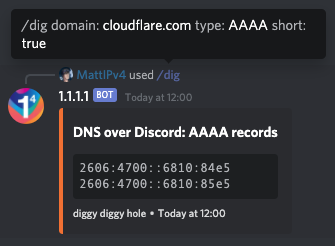
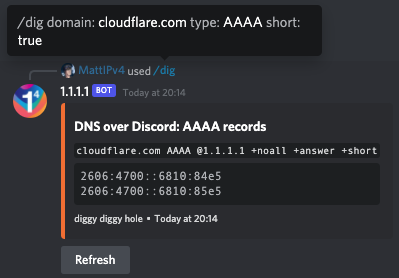
[1.1.1.1] Update the DNS over Discord docs (#1728)
* Update the DNS over Discord docs

Updates the supported types for dig & multi-dig

Adds information (and GIFs) for the new refresh button on dig & multi-dig

* Use single list format for record types

Changed region(s): [[0.0, 0.2276, 0.8358, 0.9959], [0.0, 0.0, 0.9851, 0.2561], [0.8657, 0.5122, 0.9552, 0.5691]]

diff --git a/products/1.1.1.1/src/content/fun-stuff/dns-over-discord.md b/products/1.1.1.1/src/content/fun-stuff/dns-over-discord.md
@@ -9,18 +9,24 @@ Ever wanted to make DNS requests from the comfort of your Discord server? Well n
 
 To start using the DNS over Discord bot, invite it to your Discord server using this link: [https://cfl.re/3nM6VfQ](https://cfl.re/3nM6VfQ)
 
+
 ## dig command
 
 Once the bot is in your server, type `/dig` to begin using the bot's main command — performing DNS lookups.
 This will provide a native interface within Discord that allows you to specify the domain to lookup, an optional DNS record type and an optional flag for a short result.
 
-Due to limitations in Discord, the `/dig` command can only offer 10 different DNS record types, and will default to 'A' records if none is specified.
+If only a domain is given for the command, the bot will default to looking for 'A' DNS records, and will return the full format result, not the short form.
 
 ![dig command](../static/dns-over-discord/dig-command.png)
 
-![dig command types](../static/dns-over-discord/dig-command-types.png)
+![dig domain: cloudflare.com](../static/dns-over-discord/dig-command-example-1.png)
+
+_`/dig domain: cloudflare.com`_
+
 
 ### Supported record types
+
+Discord has a limit of 25 options in slash commands, so DNS over Discord offers the 25 most common DNS record types to choose from:
 
 *   A
 *   AAAA
@@ -32,69 +38,147 @@ Due to limitations in Discord, the `/dig` command can only offer 10 different DN
 *   SPF
 *   SRV
 *   TXT
-
-For all DNS record types, use the `/multi-dig` command.
-
-### Examples
-
-![dig domain: cloudflare.com](../static/dns-over-discord/dig-command-example-1.png)
-
-`/dig domain: cloudflare.com`
-
-![dig domain: cloudflare.com type: AAAA short: True](../static/dns-over-discord/dig-command-example-2.png)
-
-`/dig domain: cloudflare.com type: AAAA short: True`
-
-## multi-dig command
-
-Want to lookup multiple DNS record types at once, or record types not available in `/dig`?
-The `/multi-dig` command allows you to specify any supported DNS record type, and multiple types separated by a space.
-
-When providing DNS record types for the `/multi-dig` command, Discord will not prompt you with options.
-Please provide a space-separated list of valid DNS record types to lookup, any invalid options will be silently dropped.
-'A' records will be used as the default if no valid types are given.
-
-![multi-dig command](../static/dns-over-discord/multi-dig-command.png)
-
-![multi-dig command types](../static/dns-over-discord/multi-dig-command-types.png)
-
-### Supported record types
-
-*   A
-*   AAAA
-*   CAA
-*   CERT
-*   CNAME
 *   DNSKEY
 *   DS
 *   LOC
-*   MX
+*   URI
+*   HTTPS
 *   NAPTR
-*   NS
 *   PTR
 *   SMIMEA
-*   SPF
-*   SRV
+*   SOA
 *   SSHFP
+*   SVCB
 *   TLSA
-*   TXT
-*   URI
+*   HINFO
+*   CDS
+*   CDNSKEY
 
-Use '\*' (asterisk) in place of a record type to get DNS results for all supported types.
+*To query other DNS record types, or multiple record types at once, use the `/multi-dig` command.*
 
-### Examples
+![dig command types](../static/dns-over-discord/dig-command-types.png)
+
+
+### Short form response
+
+Much like the dig command itself, DNS over Discord has an optional flag in the dig command that allows the user to request that the response be in the short form.
+
+When this is requested, the name and TTL columns will be excluded, with just the data column returned without the table formatting, similar to the equivalent dig command response.
+
+![dig domain: cloudflare.com type: AAAA short: true](../static/dns-over-discord/dig-command-example-2.png)
+
+_`/dig domain: cloudflare.com type: AAAA short: true`_
+
+
+### Refreshing existing results
+
+As part of the response that the DNS over Discord bot returns for dig commands there is a button to refresh the results.
+
+Any user can press this button, triggering the bot to re-request the DNS query in the message and update the results in the message.
+
+The refresh button is available on all responses to the dig command, including those that resulted in an error, such as an unknown domain or no records found.
+
+![Refreshing dig domain: cloudflare.com](../static/dns-over-discord/dig-command-refresh.gif)
+
+_`/dig domain: cloudflare.com`_
+
+
+## multi-dig command
+
+Want to lookup multiple DNS record types at once?
+The `/multi-dig` command allows you to specify any supported DNS record type, and multiple types separated by a space.
+
+![multi-dig command](../static/dns-over-discord/multi-dig-command.png)
 
 ![multi-dig domain: cloudflare.com types: A AAAA](../static/dns-over-discord/multi-dig-command-example-1.png)
 
-`/multi-dig domain: cloudflare.com types: A AAAA`
+_`/multi-dig domain: cloudflare.com types: A AAAA`_
 
-![multi-dig domain: cloudflare.com types: DNSKEY short: True](../static/dns-over-discord/multi-dig-command-example-2.png)
 
-`/multi-dig domain: cloudflare.com types: DNSKEY short: True`
+### Supported record types
+
+When providing DNS record types for the `/multi-dig` command, Discord will not prompt you with options.
+
+Please provide a space-separated list of valid DNS record types to lookup, any invalid options will be silently dropped.
+'A' records will be used as the default if no valid types are given.
+
+The following DNS record types are supported and considered valid by the bot:
+
+*   A
+*   AAAA
+*   CAA
+*   CERT
+*   CNAME
+*   MX
+*   NS
+*   SPF
+*   SRV
+*   TXT
+*   DNSKEY
+*   DS
+*   LOC
+*   URI
+*   HTTPS
+*   NAPTR
+*   PTR
+*   SMIMEA
+*   SOA
+*   SSHFP
+*   SVCB
+*   TLSA
+*   HINFO
+*   CDS
+*   CDNSKEY
+*   AFSDB
+*   APL
+*   CSYNC
+*   DHCID
+*   DLV
+*   DNAME
+*   EUI48
+*   EUI64
+*   HIP
+*   IPSECKEY
+*   KEY
+*   KX
+*   NSEC
+*   NSEC3
+*   NSEC3PARAM
+*   OPENPGPKEY
+*   RP
+*   TA
+*   TKEY
+*   ZONEMD
+
+*Use '\*' (asterisk) in place of a record type to get DNS results for all supported types.*
+
+![multi-dig command types](../static/dns-over-discord/multi-dig-command-types.png)
+
+
+### Short form response
+
+Like the main dig command, the multi-dig command also supports the optional short flag after the types have been specified in the slash command.
+
+![multi-dig domain: cloudflare.com types: CDS CDNSKEY short: true](../static/dns-over-discord/multi-dig-command-example-2.png)
+
+_`/multi-dig domain: cloudflare.com types: CDS CDNSKEY short: true`_
+
+
+### Refreshing existing results
+
+The multi-dig command also provides a refresh button below each set of DNS results requested (or after each block of 10 DNS record types if more than 10 were requested).
+
+As with the dig command, any user can press the refresh button to refresh the displayed DNS results, including for DNS queries that had previously failed.
+
+![Refreshing multi-dig domain: cloudflare.com types: A AAAA](../static/dns-over-discord/multi-dig-command-refresh.gif)
+
+_`/multi-dig domain: cloudflare.com types: A AAAA`_
+
 
 ## whois command
 
-The `/whois` command allows you to perform an RDAP/WHOIS lookup right in Discord to find who is behind a given domain name, an IP address, or an ASN.
+Curious about who's behind a domain name, an IP address or even an ASN?
+The `/whois` command allows you to perform an RDAP/WHOIS lookup right in Discord for a given domain, IP or ASN.
 
 ![whois command](../static/dns-over-discord/whois-command.png)
 
@@ -102,19 +186,19 @@ The `/whois` command allows you to perform an RDAP/WHOIS lookup right in Discord
 
 ![whois query: cloudflare.com](../static/dns-over-discord/whois-command-example-1.png)
 
-`/whois query: cloudflare.com`
+_`/whois query: cloudflare.com`_
 
 ![whois query: 104.16.132.229](../static/dns-over-discord/whois-command-example-2.png)
 
-`/whois query: 104.16.132.229`
+_`/whois query: 104.16.132.229`_
 
 ![whois query: 2606:4700::6810:84e5](../static/dns-over-discord/whois-command-example-3.png)
 
-`/whois query: 2606:4700::6810:84e5`
+_`/whois query: 2606:4700::6810:84e5`_
 
 ![whois query: 13335](../static/dns-over-discord/whois-command-example-4.png)
 
-`/whois query: 13335`
+_`/whois query: 13335`_
 
 ## Other commands
 
@@ -126,7 +210,7 @@ The `/help` command provides in-Discord documentation about all the commands ava
 
 ![help command](../static/dns-over-discord/help-command.png)
 
-`/help`
+_`/help`_
 
 ### privacy command
 
@@ -135,7 +219,7 @@ This notice can also be viewed at [https://dns-over-discord.v4.wtf/privacy](http
 
 ![privacy command](../static/dns-over-discord/privacy-command.png)
 
-`/privacy`
+_`/privacy`_
 
 ### github command
 
@@ -144,7 +228,7 @@ The GitHub repository can be accessed at [https://github.com/MattIPv4/DNS-over-D
 
 ![github command](../static/dns-over-discord/github-command.png)
 
-`/github`
+_`/github`_
 
 ### invite command
 
@@ -153,7 +237,7 @@ The bot can be invited at any time with [https://cfl.re/3nM6VfQ](https://cfl.re/
 
 ![invite command](../static/dns-over-discord/invite-command.png)
 
-`/invite`
+_`/invite`_
 
 ---
 
